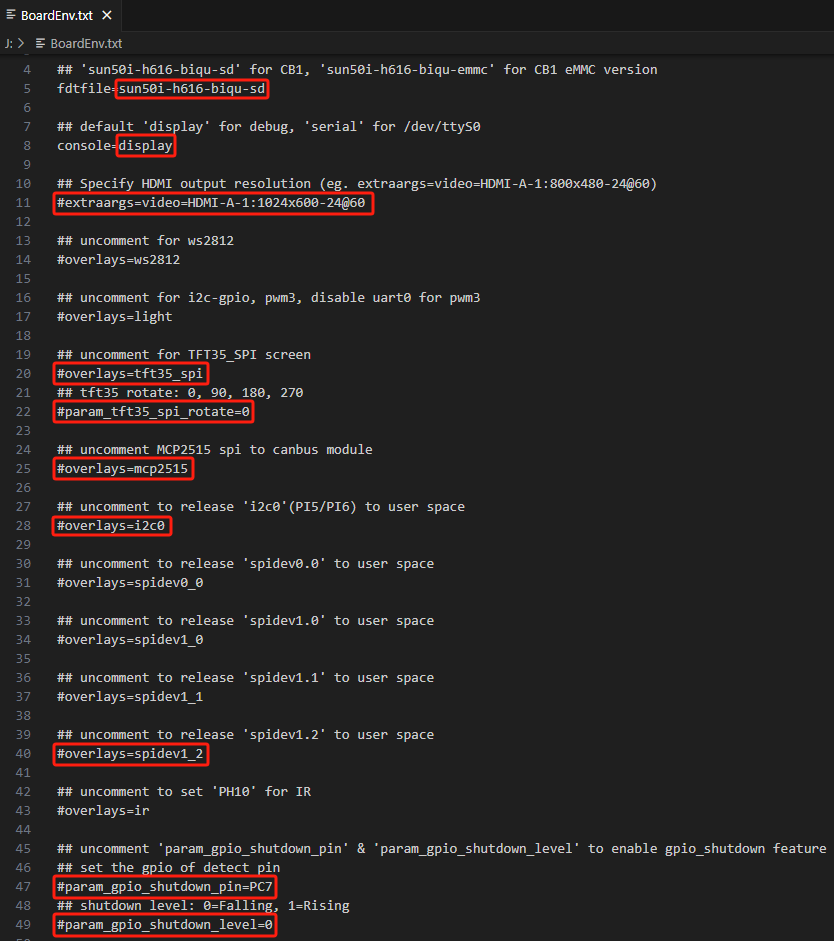
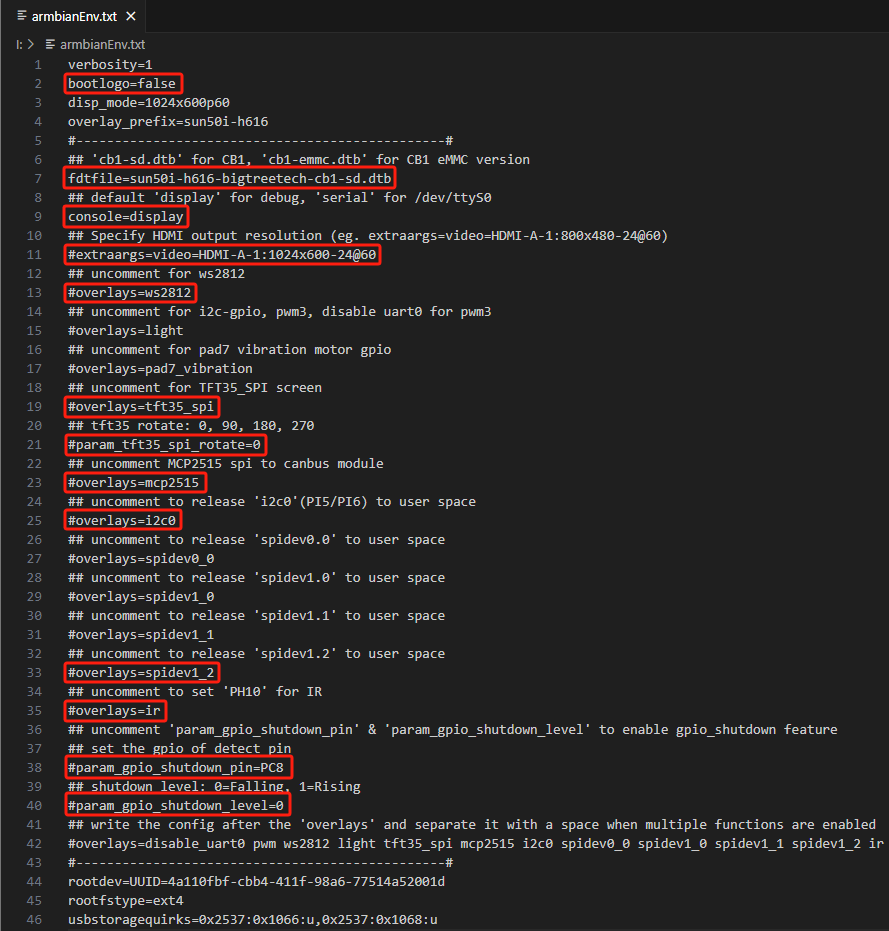
CB3 V3.0.0

Changed region(s): [[0.0, 0.0, 0.9976, 1.0], [0.6859, 0.7787, 0.9353, 0.8099]]

diff --git a/readme.md b/readme.md
@@ -4,29 +4,157 @@
 
 # OS image
 * The latest system image is [here](https://github.com/bigtreetech/CB1/releases)
-* The source code is [here](https://github.com/bigtreetech/CB1-Kernel)
+* The source code is [here](https://github.com/bigtreetech/build/tree/bpi-main)
 
-# V2.3.4 OS Setting
-## WIFI Settings
-* After the OS writes to the SD card, there is a FAT32 partition named `BOOT`, open `system.cfg` file with `Notpad`, `Notpad++` or `VSCode`.
-<br/><img src=Images/system.png width="800"/><br/>
-* Set `WIFI_SSID` as your actual wifi name and `WIFI_PASSWD` as your actual wifi password, The space character can be parsed normally without additional escape character.<br/>
-For example: `WIFI_SSID="CB1 Tester"`
-<br/><img src=Images/wifi.png width="800"/><br/>
+# V3.0.0 OS Setting
+## System Settings
+* After the OS writes to the SD card, there is a FAT32 partition named `BOOT`, open `system.cfg` file with `Notpad` or `VSCode`.
+<br/><img src=Images/system.png width="800"/><br/><img src=Images/setting.png width="800"/><br/>
+*
+    ```
+    check_interval=5
+    eth=end0
+    wlan=wlan0
+    ```
+    The script automatically connects to the WiFi parameters required, do not modify it
+*
+    ```
+    hostname="BIGTREETECH-CB1"
+    ```
+    Uncomment to set the hostname of the device. The default is `BIGTREETECH-CB1`.
+*
+    ```
+    ks_src="HDMI-1"
+    ks_angle="normal"
+    ```
+    Uncomment to set the parameters for KlipeprScreen display rotation, `ks_src` is the screen type, `ks_angle` is the rotation angle (if the screen is `TFT35`, you need to set `param_tft35_spi_rotate` in `armbianEnv.txt` additionally)
+*
+    ```
+    WIFI_SSID="Your SSID"
+    WIFI_PASSWD="Your Password"
+    ```
+    Uncomment to set the WiFi parameters. Set `WIFI_SSID` as your actual wifi name and `WIFI_PASSWD` as your actual wifi password, The space character can be parsed normally without additional escape character.<br/>
+    For example: `WIFI_SSID="CB1 Tester"`
+*
+    ```
+    BTT_PAD7="OFF"
+    TOUCH_VIBRATION="OFF"
+    TOUCH_SOUND="OFF"
+    AUTO_BRIGHTNESS="OFF"
+    ```
+    The feature of BIGTREETECH Pad7. All of these functions require the corresponding `overlay` to be enabled in `armbianEnv.txt`<br/>
+    `BTT_PAD7` is the master switch of the following functions. When it is set to `off`, all the following configurations will be ignored.<br/>
+    `TOUCH_VIBRATION` is vibration feedback when clicking on KlipperScreen buttons (Requires a [special KlipperScreen](https://github.com/bigtreetech/KlipperScreen/tree/master) version to be used together). overlay `pad7_vibration` required in `armbianEnv.txt`.<br/>
+    `TOUCH_SOUND` is sound feedback when clicking on KlipperScreen buttons (Requires a [special KlipperScreen](https://github.com/bigtreetech/KlipperScreen/tree/master) version to be used together,  The HDMI audio does not output the first 1-2 seconds, so this function is currently unavailable in V3.0.0). No additional overlay required<br/>
+    `AUTO_BRIGHTNESS` is to automatically set the screen backlight brightness according to the ambient light intensity detected by the photosensitive components. overlay `light` required in `armbianEnv.txt`.
 
 ## Overlays Settings
-* After the OS writes to the SD card, there is a FAT32 partition named `BOOT`, open `BoardEnv.txt` file with `Notpad`, `Notpad++` or `VSCode`.
+* After the OS writes to the SD card, there is a FAT32 partition named `BOOT`, open `armbianEnv.txt` file with `Notpad` or `VSCode`.
+<br/><img src=Images/ArmbianEnv.png width="800"/><br/><img src=Images/overlays.png width="800"/><br/>
+*
+    ```
+    bootlogo=false
+    ```
+    `false` display terminal startup log information without displaying logo.
+    `true` display logo but not terminal startup log information.
+*
+    ```
+    fdtfile=sun50i-h616-bigtreetech-cb1-sd.dtb
+    ```
+    set `fdtfile` to `sun50i-h616-bigtreetech-cb1-emmc.dtb` for CB1 eMMC version, set `fdtfile` to `sun50i-h616-bigtreetech-cb1-sd.dtb` (default value) for CB1 normal version.
+*
+    ```
+    console=display
+    ```
+    The default value is `console=display`, This means that the `UART0` of CB1 is used as the debugging port by default. We can use `MobaXterm` to connect to CB1 by UART0 and debug. If klipper wants to use `UART0` to control the motherboard, we need to set it to `console=serial`, now klippe can use `UART0` as `/dev/ttyS0`.
+*
+    ```
+    extraargs=video=HDMI-A-1:1024x600-24@60
+    ```
+    CB1 will automatically identify the HDMI resolution, but if your HDMI screen cannot report the resolution through the EDID normally, we can forcibly specify the resolution of CB1 output by uncomment `extraargs=video` and set the actual resolution.<br/>
+    For example:<br/>
+    BIGTREETECH-HDMI7 resolution = 1024x600: `extraargs=video=HDMI-A-1:1024x600-24@60`<br/>
+    BIGTREETECH-HDMI5 resolution = 800x480: `extraargs=video=HDMI-A-1:800x480-24@60`
+*
+    ```
+    overlays=ws2812
+    ```
+    Uncomment `overlays=ws2812` to enable the WS2812 status RGB LED function for BIGTREETECH Pad7.
+*
+    ```
+    overlays=tft35_spi
+    param_tft35_spi_rotate=0
+    ```
+    Uncomment `overlays=tft35_spi` to enable TFT35 SPI screen, uncomment `param_tft35_spi_rotate=xx`(0, 90, 180, 270) to set TFT35 SPI rotation angle, we also need to set `ks_src` to sync display type to KlipperScreen and `ks_angle` to set touch rotation to match the display of TFT35 in `system.cfg`.
+*
+    ```
+    overlays=mcp2515
+    ```
+    Uncomment `overlays=mcp2515` to enable MCP2515 spi to canbus module (Theoretically, it can be multiplexed with `tft35_spi` and 'spidev1.2' at the same time, but `mcp2515` needs strong real-time, it is better not to enable other SPI1 features when using `mcp2515`).
+*
+    ```
+    overlays=i2c0
+    ```
+    Uncomment `overlays=i2c0` to release '/dev/i2c-0' to user space for `BIGTREETECH Pi1` / `CB1 eMMC`, The list of i2c device is as follows:
+    * Before uncomment, the system has 3 built-in i2c devices:
+        * `/dev/i2c-0`: for PMU axp313a.
+        * `/dev/i2c-1`: for HDMI's i2c.
+        * `/dev/i2c-2`: twi3(PA10/PA11) for the H616 built-in Ethernet PHY device (ac200/ac300).
+    * After uncomment, 1 user space i2c + 3 built-in i2c:
+        * `/dev/i2c-0`: user space i2c0(PI5/PI6).
+        * `/dev/i2c-1`: for PMU axp313a.
+        * `/dev/i2c-2`: for HDMI's i2c.
+        * `/dev/i2c-3`: twi3(PA10/PA11) for the H616 built-in Ethernet PHY device (ac200/ac300).
+*
+    ```
+    overlays=spidev1_2
+    ```
+    Uncomment `overlays=spidev1_2` to release 'spidev1.2' to user space (For example: adxl345), `spidev1.0` is used by `MCP2515`, `spidev1.1` is used by `tft35_spi`.
+*
+    ```
+    overlays=ir
+    ```
+    Uncomment `overlays=ir` to enable IR feature for `BIGTREETECH Pi1`, now we can use command `sudo ir-keytable -c -p NEC -t` to test the IR feature.
+*
+    ```
+    param_gpio_shutdown_pin=PC8
+    param_gpio_shutdown_level=0
+    ```
+    Uncomment `param_gpio_shutdown_pin=PC8` and `param_gpio_shutdown_level=0` for GPIO triggers system shutdown feature, `param_gpio_shutdown_pin` is the GPIO used for detection, `param_gpio_shutdown_level` is the triggering level, `0` means the falling edge is triggered, and `1` means the rising edge is triggered.
+* NOTE: TFT35 SPI and MCP2515 multiplex a group of SPI1
+    ```
+    SPI1_CLK=PH6
+    SPI1_MISO=PH8
+    SPI1_MOSI=PH7
+    TFT35_SPI_CS=PC7 (SD Version) / PI14 (eMMC Version)
+    MCP2515_CS=PC11 (SD Version) / PI5 (eMMC Version)
+    MCP2515_IRQ=PC9 (SD Version) / PI3 (eMMC Version)
+    ```
+
+# V2.3.4 OS Setting
+<details>
+<summary><b>V2.3.4 OS Setting</b></summary>
+
+## WIFI Settings
+* After the OS writes to the SD card, there is a FAT32 partition named `BOOT`, open `system.cfg` file with `Notpad` or `VSCode`.
+<br/><img src=Images/V2.3.4_system.png width="800"/><br/>
+* Set `WIFI_SSID` as your actual wifi name and `WIFI_PASSWD` as your actual wifi password, The space character can be parsed normally without additional escape character.<br/>
+For example: `WIFI_SSID="CB1 Tester"`
+<br/><img src=Images/V2.3.4_wifi.png width="800"/><br/>
+
+## Overlays Settings
+* After the OS writes to the SD card, there is a FAT32 partition named `BOOT`, open `BoardEnv.txt` file with `Notpad` or `VSCode`.
 <br/><img src=Images/BoardEnv.png width="800"/><br/>
 * Set as required as shown in the figure below.
     * set `fdtfile` to `sun50i-h616-biqu-emmc` for CB1 eMMC version, set `fdtfile` to `sun50i-h616-biqu-sd` (default value) for CB1 normal version 
     * The default value is `console=display`, This means that the `UART0` of CB1 is used as the debugging port by default. We can use `MobaXterm` to connect to CB1 by UART0 and debug. If klipper wants to use `UART0` to control the motherboard, we need to set it to `console=serial`, now klippe can use `UART0` as `/dev/ttyS0`.
     * CB1 will automatically identify the HDMI resolution, but if your HDMI screen cannot report the resolution through the EDID normally, we can forcibly specify the resolution of CB1 output by uncomment `extraargs=video` and set the actual resolution.<br/>
     For example:<br/>
-    BTT-HDMI7 resolution = 1024x600: `extraargs=video=HDMI-A-1:1024x600-24@60`<br/>
-    BTT-HDMI5 resolution = 800x480: `extraargs=video=HDMI-A-1:800x480-24@60`<br/>
+    BIGTREETECH-HDMI7 resolution = 1024x600: `extraargs=video=HDMI-A-1:1024x600-24@60`<br/>
+    BIGTREETECH-HDMI5 resolution = 800x480: `extraargs=video=HDMI-A-1:800x480-24@60`<br/>
     * Uncomment `overlays=tft35_spi` to enable TFT35 SPI screen, uncomment `param_tft35_spi_rotate=xx`(0, 90, 180, 270) to set TFT35 SPI rotation angle, we may also need to set `ks_angle` in `system.cfg` to set touch rotation to match the display of TFT35.
     * Uncomment `overlays=mcp2515` to enable MCP2515 spi to canbus module (Theoretically, it can be multiplexed with `tft35_spi` and 'spidev1.2' at the same time, but `mcp2515` needs strong real-time, it is better not to enable other SPI1 features when using `mcp2515`).
-    * uncomment `overlays=i2c0` to release '/dev/i2c-0' to user space for `BTT Pi` / `CB1 eMMC`, The list of i2c device is as follows:
+    * uncomment `overlays=i2c0` to release '/dev/i2c-0' to user space for `BIGTREETECH Pi1` / `CB1 eMMC`, The list of i2c device is as follows:
 		* Before uncomment, the system has 3 built-in i2c devices:
             * `/dev/i2c-0`: twi3(PA10/PA11) for the H616 built-in Ethernet PHY device (ac200/ac300).
             *  `/dev/i2c-1`: for PMU axp313a.
@@ -37,21 +165,22 @@ For example: `WIFI_SSID="CB1 Tester"`
             *  `/dev/i2c-2`: for PMU axp313a.
             *  `/dev/i2c-3`: for HDMI's i2c.
     * uncomment `overlays=spidev1_2` to release 'spidev1.2' to user space (For example: adxl345), `spidev1.0` is used by `MCP2515`, `spidev1.1` is used by `tft35_spi`.
-    * uncomment `#param_gpio_shutdown_pin=PC7` and `#param_gpio_shutdown_level=0` for GPIO triggers system shutdown feature, `#param_gpio_shutdown_pin` is the GPIO used for detection, `#param_gpio_shutdown_level` is the triggering level, `0` means the falling edge is triggered, and `1` means the rising edge is triggered.
-    <br/><img src=Images/overlays.png width="800"/><br/>
+    * uncomment `#param_gpio_shutdown_pin=PC8` and `#param_gpio_shutdown_level=0` for GPIO triggers system shutdown feature, `#param_gpio_shutdown_pin` is the GPIO used for detection, `#param_gpio_shutdown_level` is the triggering level, `0` means the falling edge is triggered, and `1` means the rising edge is triggered.
+    <br/><img src=Images/V2.3.4_overlays.png width="800"/><br/>
 * NOTE: TFT35 SPI and MCP2515 multiplex a group of SPI1
     ```
     SPI1_CLK=PH6
     SPI1_MISO=PH8
     SPI1_MOSI=PH7
-    TFT35_SPI_CS=PC7
-    MCP2515_CS=PC11
-    MCP2515_IRQ=PC9
+    TFT35_SPI_CS=PC7 (SD Version) / PI14 (eMMC Version)
+    MCP2515_CS=PC11 (SD Version) / PI5 (eMMC Version)
+    MCP2515_IRQ=PC9 (SD Version) / PI3 (eMMC Version)
     ```
+</details>
 
-## Custom logo
+# Custom logo
 
-Refer to [here](https://github.com/bigtreetech/armbian-bootlogo)
+Refer to [here](https://bttwiki.com/pi_custom_logo.html)
 
 # CB1 eMMC Version
 __NOTE: The CB1 eMMC version can also use the SD card as the OS image source, and the priority of the SD card is higher than on-board eMMC, so when using the eMMC, remember not to insert the OS SD card__
@@ -94,7 +223,7 @@ __NOTE: The CB1 eMMC version can also use the SD card as the OS image source, an
         Pin
     </td>
     <td colspan=2 align=center bgcolor=#B7DEE8>
-        BTT Pi
+        BIGTREETECH Pi1
     </td>
     <td colspan=2 align=center bgcolor=#E6B8B7>
         CB1 eMMC
@@ -115,7 +244,7 @@ __NOTE: The CB1 eMMC version can also use the SD card as the OS image source, an
         CB1 eMMC
     </td>
     <td colspan=2 align=center bgcolor=#B7DEE8>
-        BTT Pi
+        BIGTREETECH Pi1
     </td>
     <td rowspan=2 align=center bgcolor=gray>
         Pin
